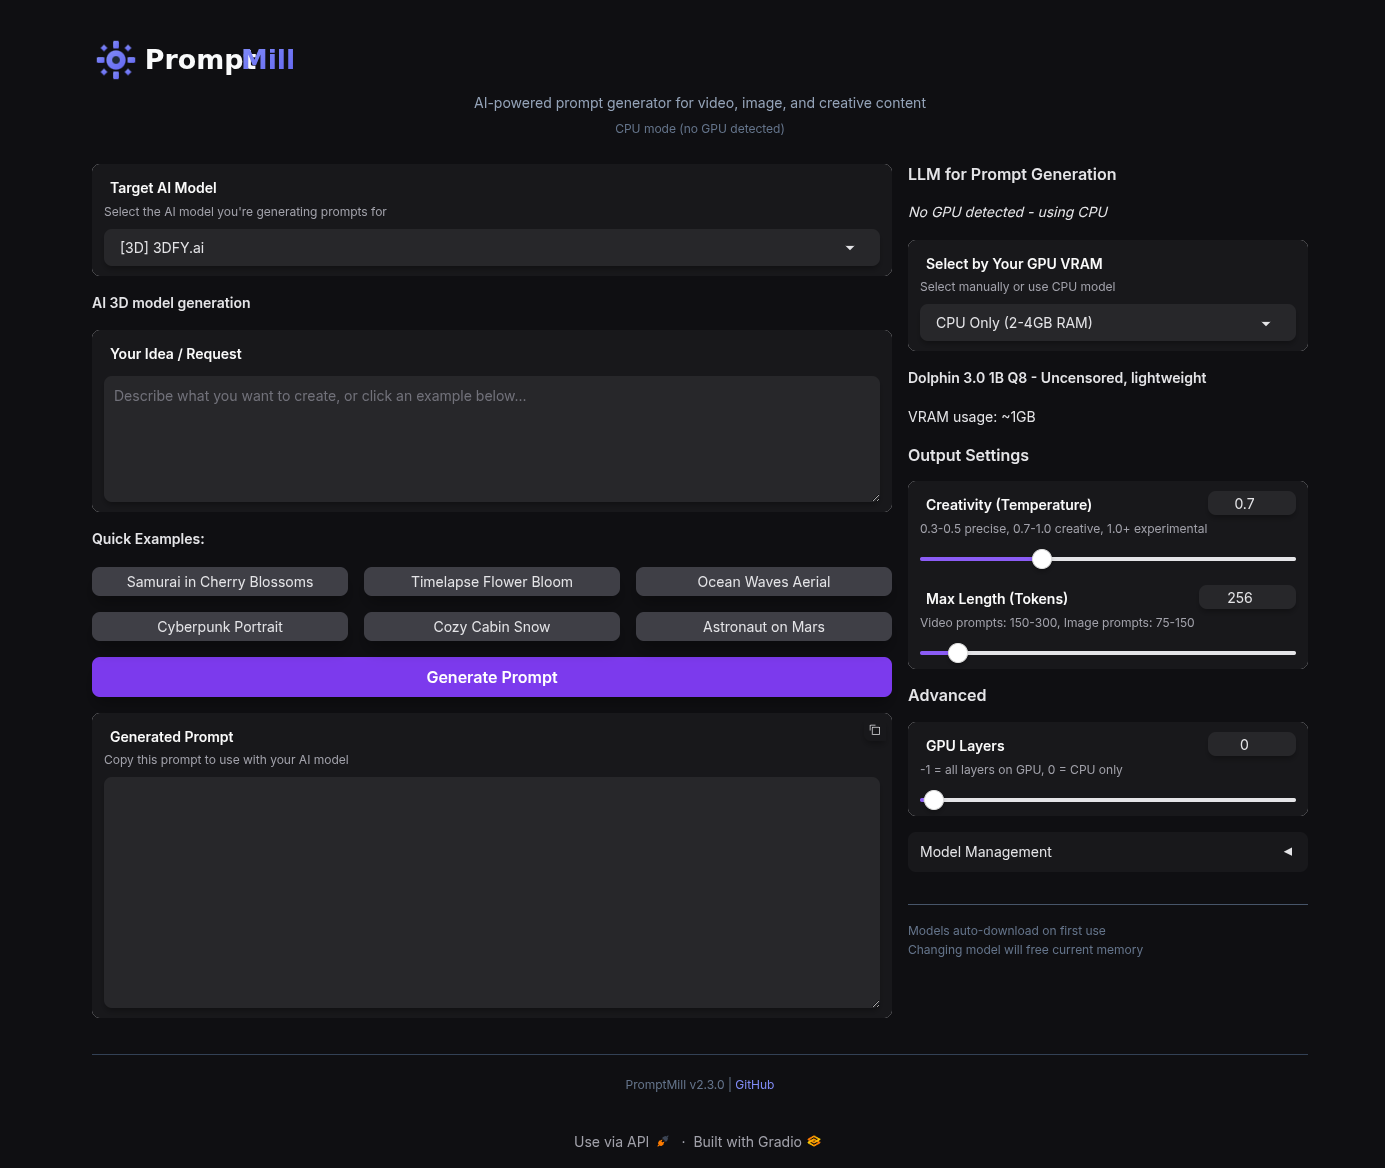
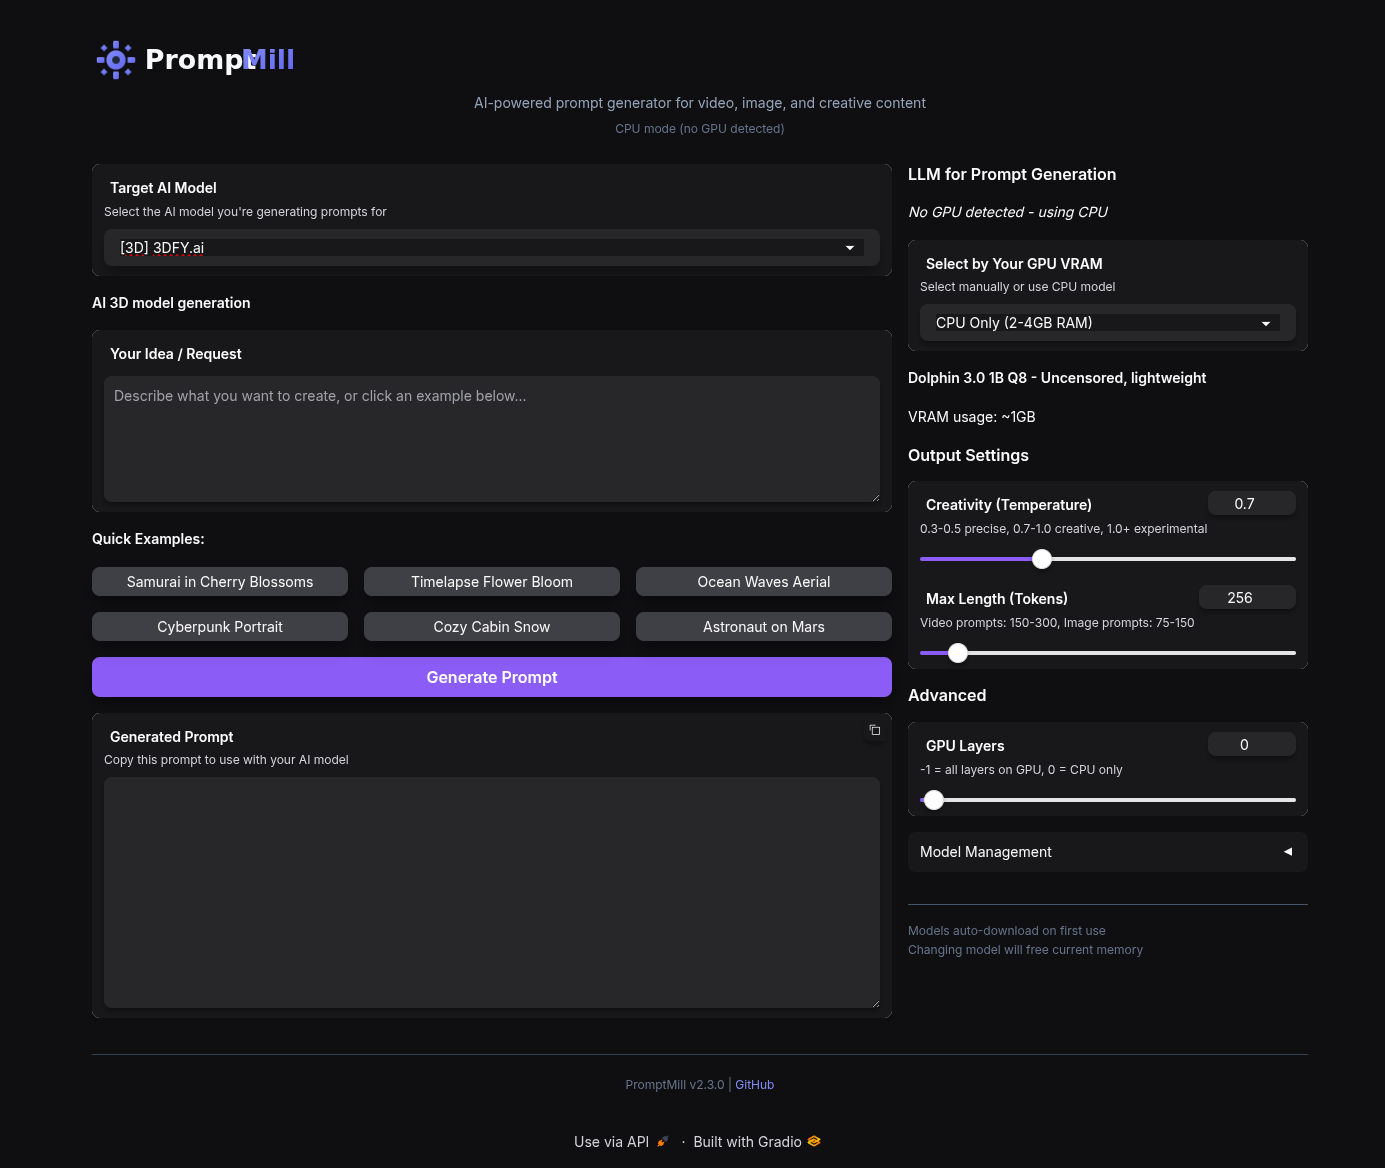
Fix dropdown contrast with custom CSS
- Add custom CSS to fix dropdown/listbox contrast
- Dark background with white text for dropdown options
- Improve text colors throughout UI
- Update screenshots with improved theme

🤖 Generated with [Claude Code](https://claude.com/claude-code)

Changed region(s): [[0.0621, 0.5548, 0.652, 0.6164]]

diff --git a/src/promptmill/presentation/theme.py b/src/promptmill/presentation/theme.py
@@ -18,46 +18,46 @@ def create_theme() -> gr.themes.Base:
         # Background colors - rich dark
         body_background_fill="#0f0f12",
         body_background_fill_dark="#0f0f12",
-        # High contrast text
-        body_text_color="#e4e4e7",
-        body_text_color_dark="#e4e4e7",
-        body_text_color_subdued="#a1a1aa",
-        body_text_color_subdued_dark="#a1a1aa",
+        # High contrast text - brighter white
+        body_text_color="#fafafa",
+        body_text_color_dark="#fafafa",
+        body_text_color_subdued="#d4d4d8",
+        body_text_color_subdued_dark="#d4d4d8",
         # Block styling
         block_background_fill="#18181b",
         block_background_fill_dark="#18181b",
-        block_border_color="#27272a",
-        block_border_color_dark="#27272a",
+        block_border_color="#3f3f46",
+        block_border_color_dark="#3f3f46",
         block_label_background_fill="#18181b",
         block_label_background_fill_dark="#18181b",
-        block_label_text_color="*primary_400",
-        block_label_text_color_dark="*primary_400",
-        block_title_text_color="#fafafa",
-        block_title_text_color_dark="#fafafa",
-        # Input fields - clear visibility
+        block_label_text_color="*primary_300",
+        block_label_text_color_dark="*primary_300",
+        block_title_text_color="#ffffff",
+        block_title_text_color_dark="#ffffff",
+        # Input fields - high contrast
         input_background_fill="#27272a",
         input_background_fill_dark="#27272a",
-        input_border_color="#3f3f46",
-        input_border_color_dark="#3f3f46",
-        input_border_color_focus="*primary_500",
-        input_border_color_focus_dark="*primary_500",
-        input_placeholder_color="#71717a",
-        input_placeholder_color_dark="#71717a",
+        input_border_color="#52525b",
+        input_border_color_dark="#52525b",
+        input_border_color_focus="*primary_400",
+        input_border_color_focus_dark="*primary_400",
+        input_placeholder_color="#a1a1aa",
+        input_placeholder_color_dark="#a1a1aa",
         # Primary button - vibrant
-        button_primary_background_fill="*primary_600",
-        button_primary_background_fill_dark="*primary_600",
-        button_primary_background_fill_hover="*primary_500",
-        button_primary_background_fill_hover_dark="*primary_500",
+        button_primary_background_fill="*primary_500",
+        button_primary_background_fill_dark="*primary_500",
+        button_primary_background_fill_hover="*primary_400",
+        button_primary_background_fill_hover_dark="*primary_400",
         button_primary_text_color="#ffffff",
         button_primary_text_color_dark="#ffffff",
-        # Secondary buttons
+        # Secondary buttons - clearer
         button_secondary_background_fill="#3f3f46",
         button_secondary_background_fill_dark="#3f3f46",
         button_secondary_background_fill_hover="#52525b",
         button_secondary_background_fill_hover_dark="#52525b",
-        button_secondary_text_color="#e4e4e7",
-        button_secondary_text_color_dark="#e4e4e7",
+        button_secondary_text_color="#fafafa",
+        button_secondary_text_color_dark="#fafafa",
         # Shadows
-        shadow_drop="0 4px 6px -1px rgba(0, 0, 0, 0.3)",
-        shadow_drop_lg="0 10px 15px -3px rgba(0, 0, 0, 0.3)",
+        shadow_drop="0 4px 6px -1px rgba(0, 0, 0, 0.4)",
+        shadow_drop_lg="0 10px 15px -3px rgba(0, 0, 0, 0.4)",
     )

diff --git a/src/promptmill/presentation/gradio_app.py b/src/promptmill/presentation/gradio_app.py
@@ -23,6 +23,64 @@ from promptmill.presentation.theme import create_theme
 
 logger = logging.getLogger(__name__)
 
+# Custom CSS for improved dropdown contrast
+CUSTOM_CSS = """
+/* Dropdown menu styling - dark background with high contrast text */
+.svelte-1gfkn6j {
+    background-color: #18181b !important;
+    border-color: #3f3f46 !important;
+}
+
+/* Dropdown options */
+.svelte-1gfkn6j ul {
+    background-color: #18181b !important;
+}
+
+.svelte-1gfkn6j li {
+    color: #fafafa !important;
+    background-color: #18181b !important;
+}
+
+.svelte-1gfkn6j li:hover {
+    background-color: #27272a !important;
+    color: #ffffff !important;
+}
+
+.svelte-1gfkn6j li[aria-selected="true"] {
+    background-color: #3f3f46 !important;
+    color: #ffffff !important;
+}
+
+/* Generic dropdown/listbox styling */
+[role="listbox"] {
+    background-color: #18181b !important;
+    border-color: #3f3f46 !important;
+}
+
+[role="option"] {
+    color: #fafafa !important;
+    background-color: #18181b !important;
+}
+
+[role="option"]:hover {
+    background-color: #27272a !important;
+}
+
+[role="option"][aria-selected="true"] {
+    background-color: #3f3f46 !important;
+}
+
+/* Input text color */
+input, textarea, select {
+    color: #fafafa !important;
+}
+
+/* Ensure dropdown text is visible */
+.wrap.svelte-1gfkn6j {
+    color: #fafafa !important;
+}
+"""
+
 # Example prompts for quick start
 EXAMPLE_PROMPTS = [
     (
@@ -84,7 +142,7 @@ class GradioApp:
         else:
             gpu_status = "CPU mode (no GPU detected)"
 
-        with gr.Blocks(title="PromptMill", theme=create_theme()) as app:
+        with gr.Blocks(title="PromptMill", theme=create_theme(), css=CUSTOM_CSS) as app:
             # Header
             gr.HTML(self._create_header_html(gpu_status))
 
